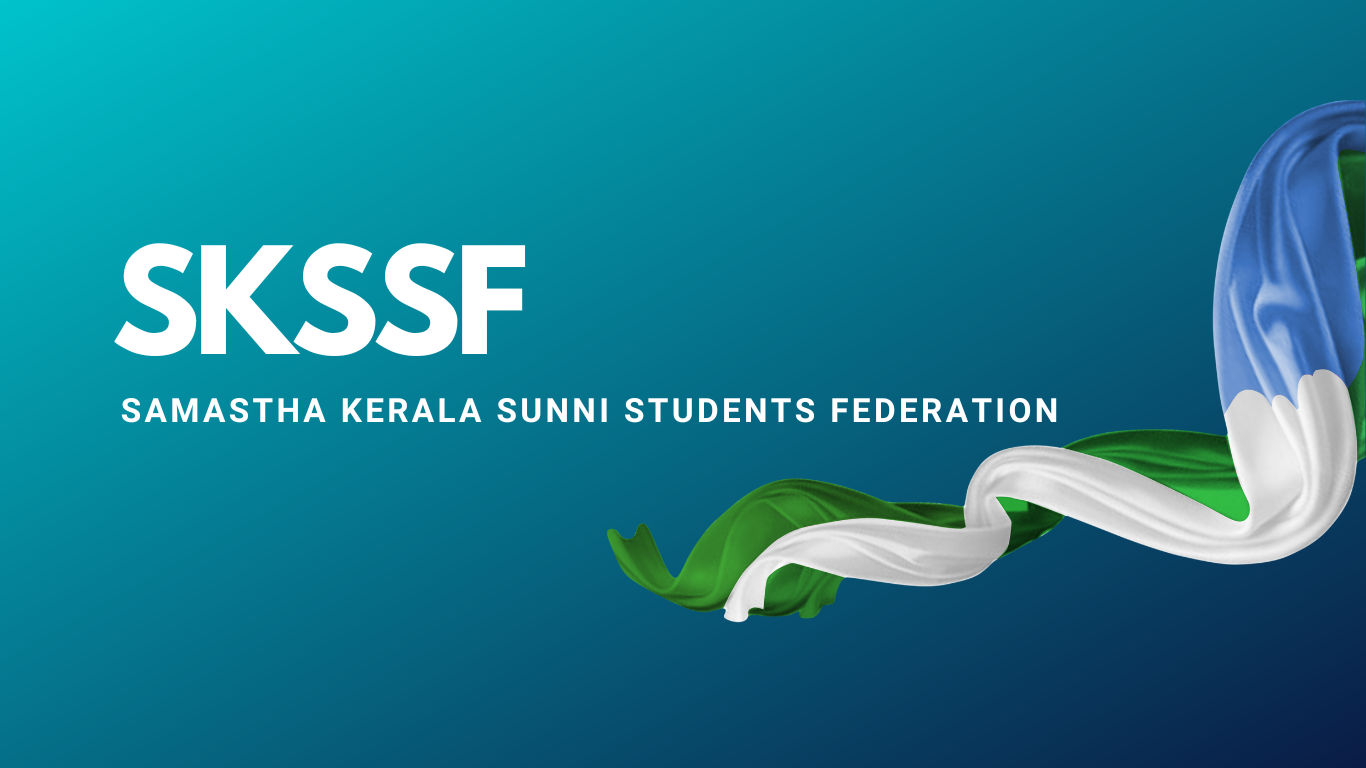
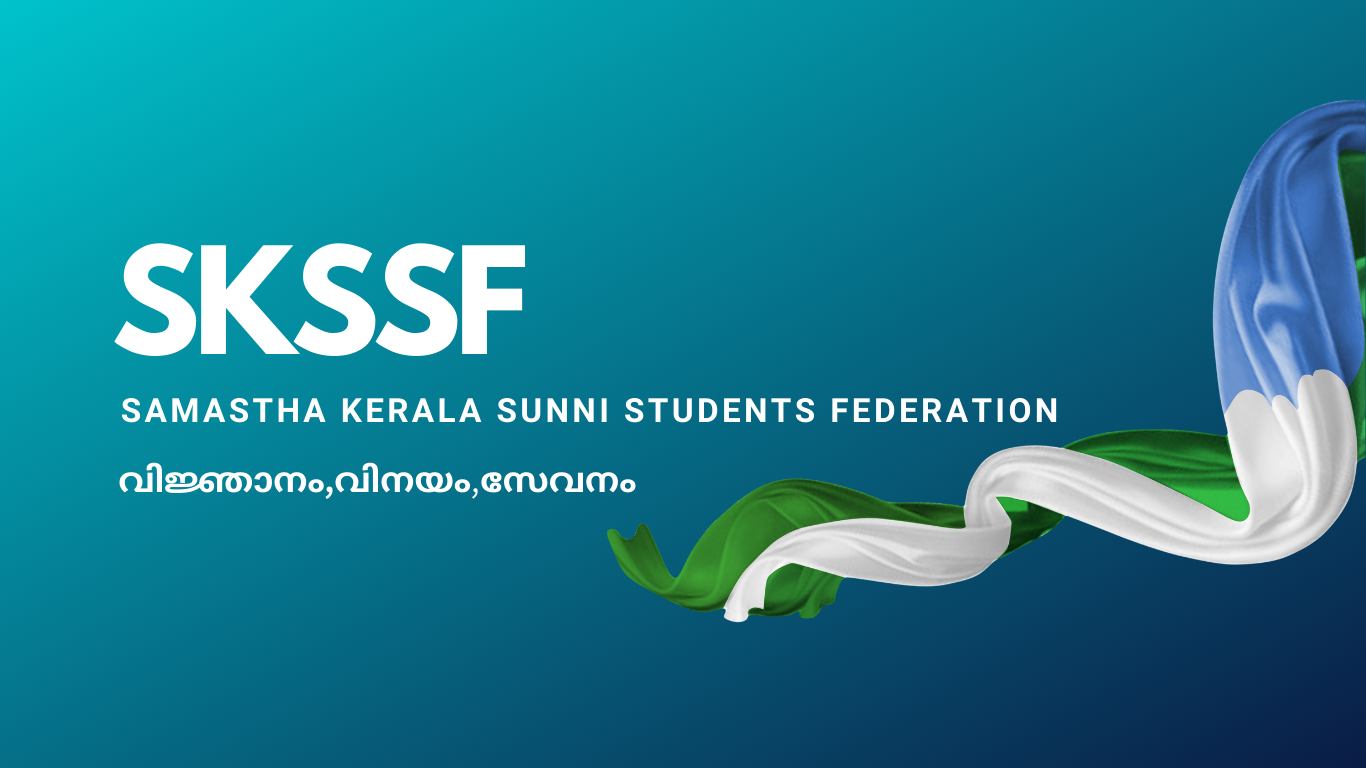
second commit

Changed region(s): [[0.0922, 0.5938, 0.4612, 0.6562]]

diff --git a/src/components/AboutComponents/about.jsx b/src/components/AboutComponents/about.jsx
@@ -140,7 +140,25 @@ const about = () => {
         </tbody>
       </table>
     </div>
+    <div className="mt-12 sm:mt-16 md:mt-20 lg:mt-28 flex justify-center flex-col items-center">
 
+    <h1 className="text-3xl md:text-2xl sm:text-xl text-md text-center text-sky-700 font-extrabold">
+        HISTORY
+      </h1>
+
+      <div className="w-[80%]  mt-4">
+<p className="text-sky-900 font-medium text-justify leading-relaxed  text-md"> മഹാസംഗമമായപ്പോള് കുറ്റിപ്പുറത്ത് നിളാതിരം ശാസ്ത്രീയമായ സംഘാടക മികവു ചിന്തോദ്ദീപങ്ങളായ ചര്ച്ചകളും കണ്ട് പുളകമണിഞ്ഞു. അന്ന് ഓടിയെത്തിയ ജനലക്ഷങ്ങള് നിളയുടെ തീരത്തെ മറ്റേതു ചരിത്രത്തെക്കാളും വലിയ മഹാ സംഗമമായി. രണ്ടാം ദശകത്തിലെ മജ്ലിസ് ഇന്തിസാബ് നാമധേയം പോലെ വ്യത്യസ്തകള് നിറഞ്ഞ സമ്മേളനമായി. നവോത്ഥാനത്തിന്റെ പുതുജാലകങ്ങള് തുറക്കാന് അനിവാര്യമായ ചുവടുകളാണ് ഈ വിദ്യാര്ത്ഥി സംഘശക്തിക്ക് ഈ സമ്മേളനങ്ങള് നല്കിയ കരുത്ത്.
+വാദീനൂര് സമ്മേളനത്തിന്റെ ഉപോല്പന്നമായി വന്ന പ്രബോധന വിംഗാണ് ഇബാദ്. ഇസ്ലാമിക പ്രബോധന രംഗത്ത് ഇബാദ് വിജയക്കൊടി നാട്ടിക്കഴിഞ്ഞു. സമുദായത്തിനകത്ത് ജീര്ണ്ണതകള് ഉന്മൂലനം ചെയ്യാനുള്ള ശ്രമങ്ങളില് വ്യാപൃതമാകാവുന്നതോടൊപ്പം വ്യവസ്ഥാപിതവും മനഃശാസ്ത്രപരവുമായ സമീപനത്തിലൂടെ ഇതരമതാനുയായികളില് ഇസ്ലാമിനെ പരിചയപ്പെടുത്താന് ഇബാദിന് കഴിഞ്ഞു. അനേകം ഹൃദയങ്ങള്ക്ക് വെളിച്ചം നല്കാന് കഴിഞ്ഞു എന്നതോടൊപ്പം നിരന്തരം ഇരുട്ട് മാറിയ മനസ്സുകളുടെ എണ്ണം ശതഗുണീഭവിക്കുകയാണ്. അറവങ്കരയില് ആരംഭം കുറിച്ച പ്രവാചക വൈദ്യചികിത്സാകേന്ദ്രം പാസ്സ് ലഹരിക്ക് അടിമപ്പെട്ടവരെ ലഹരിമുക്തമാക്കാനുള്ള കേന്ദ്രവും കൂടിയാണ്. മഹല്ല് തലങ്ങളില് പ്രവര്ത്തനനിരതമാവാനും സത്യസരണിയെക്കുറിച്ച് പഠിപ്പിക്കാനുമായി സമഗ്രമഹല്ല് പദ്ധതി ഇബാദ് രൂപീകരിച്ചിട്ടുണ്ട്. സംസ്ഥാനത്ത് ഒട്ടാകെ നിരന്തരം പ്രവര്ത്തിക്കുന്നവിധം നാനൂറ് ദാഇമാര് ഇന്ന് ഇബാദിന്റെ പ്രവര്ത്തനത്തിന് സജ്ജമാണ്.
+വിദ്യാഭ്യാസ പ്രവര്ത്തന രംഗത്ത് ശക്തമായ മുന്നേറ്റമാണ് സംഘടനയുടെ ഉപ വിഭാഗമായ ട്രെന്റ് നടത്തുന്നത്. ഹയര് എഡ്യുക്കേഷന് പ്രോഗ്രാമിന്റെ ഭാഗമായി മസ്ക്കറ്റ് സുന്നി സെന്ററിന്റെ സാമ്പത്തിക സഹായത്തോടെ നടത്തിയ പദ്ധതി വഴി രണ്ട് ഐ.എ.എസുകാരെ സമൂഹത്തിന് നല്കി ട്രന്റിന്റെ പ്രവര്ത്തന രംഗത്ത് വ്യാപൃതനായിരുന്ന മുഹമ്മദലി ശിഹാബിന്റെ ഐ.എ.എസ്. ചട്ടവും സംഘടനയുടെ പ്രവര്ത്തന രംഗത്തെ ധന്യതയാണ്. ഷാര്ജ എസ്.കെ.എസ്.എസ്.എഫ് കമ്മിറ്റിയുടെ ആത്മാര്ത്ഥമായ സഹകരണത്തോടെ ഡിസംബര് 31ന് ഉദ്ഘാടനം ചെയ്ത സ്റ്റെപ് പദ്ധതി നൂറ്റിമുപ്പത്തിയാറ് വിദ്യാര്ത്ഥികളെ തെരെഞ്ഞെടുത്ത് അവര്ക്ക് ഉന്നത പഠനത്തിന് വിശിഷ്യാ സിവില് സര്വ്വീസ് മേഖലയിലേക്കുള്ള പ്രചോദന പരിശീലനങ്ങള് നല്കാവുന്ന വിപുല പദ്ധതിയാണ് ആവിഷ്കരിച്ചിട്ടുള്ളത്. കേരള വിദ്യാഭ്യാസ വകുപ്പ് മന്ത്രി അബ്ദുള് റബ്ബ് സാഹിബ് ഉദ്ഘാടനം ചെയ്ത പരിപാടി വലിയ പ്രതീക്ഷയാണ് ഉണര്ത്തുന്നത്. മോട്ടിവേഷന് ക്ലാസുകള് കരിയര്, ഗൈഡന്സ് എന്നിങ്ങനെ, ട്രെന്റ് വിദ്യാഭ്യാസ പ്രവര്ത്തന രംഗത്ത് നവോത്ഥാന വിപ്ലവം സൃഷ്ടിക്കുകയാണ്.
+ഇസ്ലാമിക സാഹിത്യ രംഗത്ത് പ്രസാധന വിഭാഗമായ ഇസ പുസ്തകങ്ങള്, പ്രഭാഷണ സിഡികള് എന്നിവ കാലിക പ്രസക്തമായ വിധം പ്രസിദ്ധീകരിക്കുന്നു. കേരളത്തിലങ്ങോളം ശാഖകളും പതിനായിരക്കണക്കിന് പഠിതാക്കളുമുള്ള ഖുര്ആന് സ്റ്റഡി സെന്റര്, സമസ്തയുടെ ആശയ പ്രചരണത്തിന് എസ്.കെ.എസ്,എസ്.എഫിന്റെ താങ്ങായി പ്രവര്ത്തിക്കുന്ന പ്രവാസി വിംഗുകള് ഇസ്ലാമിക് സെന്ററുകള്, സുന്നി സെന്ററുകള്, സംഘടന പ്രവര്ത്തനത്തിന്റെ ജീവനാഡികള് യഥാര്ത്ഥത്തില് പ്രവാസ സമിതികളാണ്. അവരുടെ നിശ്ശബ്ദ സേവനങ്ങളെ എത്ര പ്രശംസിച്ചാലും മതിയാവില്ല. ഓരോ ഘട്ടത്തിലും സംഘടന ഏറ്റെടുക്കുന്ന വിവിധ പ്രവര്ത്തനങ്ങള് നിര്ലോഭം സഹകരിച്ച് വിജയിപ്പിക്കുന്നതില് അവരുടെ പങ്ക് വലുതാണ്.
+സമാകാലിക പ്രശ്നങ്ങളെ അപഗ്രഥിച്ച് സുന്നത്ത് ജമാഅത്തിന്റെ ആശയങ്ങള്ക്കനുസരിച്ച് നേരിന്റെ ശബ്ദം ഉറച്ച് പറയുന്ന സത്യധാരയും പ്രചരണ രംഗത്തെ നൂതമ സംവിധാനമായി വിവരസാങ്കേതിക വിദ്യയുടെ സഹായമായി മാറിയ കേരള ഇസ്ലാമിക് ക്ലാസ് റൂമും സംഘടനയുടെ ആശയ പ്രചരണസംവിധാനങ്ങളുടെ പുഷ്കല ഉപാധികളാണ്.
+കാമ്പസ് ജീവിതത്തിന്റെ ധാര്മ്മികതയെ ശരിപ്പെടുത്താന് വിപുല സംവിധാനങ്ങളോടെ പ്രവര്ത്തിക്കുന്ന കാമ്പസ് വിംഗ്, വിവിധ പ്രവര്ത്തന മേഖലകള് വ്യാപിപ്പിക്കുകയാണ്. കാമ്പസ് വിംഗിന്റെ ആശയവിനിമയ സംവിധാനങ്ങള് ഏറെ ശ്രദ്ധേയമായി വരികയാണ്. സംസ്ഥാനത്ത് ഏറെ ശ്രദ്ധേയമായ കമ്മ്യൂണിറ്റി സെറ്റ് കാമ്പസ് വിംഗിന്റേതായി മാറിക്കഴിഞ്ഞു. അറബി കോളേജ്, ദര്സ് വിദ്യാര്ത്ഥികള്ക്കുള്ള ത്വലബാ വിംഗും സംഘടനയുടെ കരുത്തിന്റെ പ്രതീകമായ വിഖായയും പ്രവര്ത്തന രംഗത്ത് കര്മ്മ പദ്ധതികള് സമര്പ്പിച്ച് സജീവ ശ്രദ്ധ നേടി വരുന്നു.
+സര്ഗവാസനയെ പ്രോത്സാഹിപ്പിച്ച് യൂണിറ്റ് മുതല് സംസ്ഥാന തലം വരെ സര്ഗപ്രതിഭകളെ വളര്ത്തിയെടുക്കുന്നതിന് ഉപകരിക്കുംവിധം നടത്തുന്ന ശ്രദ്ധേയമായ പ്രവര്ത്തനമാണ് സര്ഗലയം. ഓരോ രണ്ടു വര്ഷവും കൂടി നടക്കുന്ന സര്ഗലയം പ്രതിഭകളുടെ സംഗമമായി മാറുന്നു. പ്രതിഭകള്ക്കായി വിപുല സംവിധനാനത്തോടെ ഒരു സാസ്കാരിക സമിതി സംഘടനയുടെ ആലോചനയിലുണ്ട്.
+മതതീവ്രവാദം കേരള മുസ്ലിം യൗവ്വനത്തെ കാര്ന്ന് തിന്നാല് തുടങ്ങിയ ഘട്ടത്തില് മതതീവ്രവാദത്തിനും വര്ഗ്ഗീയതക്കുമെതിരെ സംഘടന നടത്തിയ പോരാട്ടങ്ങള് പൊതു സമൂഹത്തിന്റെ ശ്രദ്ധയും അംഗീകാരവുമ നേടിയതിന്റെ സാക്ഷിപത്രമാണ് ഓരോ റിപ്പബ്ലിക് ഡേയിലും നടക്കുന്ന മനുഷ്യജാലിക സംഗമങ്ങളുടെ അത്ഭുത പൂര്വ്വ വിജയം. നാടിന്റെ സൗഹൃദം കാക്കാന് വികാരത്തിനെതിരെ വിചിന്തനത്തിന്റെയും കാര്യബോധത്തിന്റെയും കൂട്ടായ്മയായി മനുഷ്യജാലിക അടയാളപ്പെടുത്തിക്കഴിഞ്ഞു.
+ഗതകാല സുകൃതം പേറി പുരോയാനത്തിന്റെ പുതുപ്പാട്ടുമായി മുന്നേറ്റത്തിന് കളമൊരുക്കാന് റെയില്വേ ലിങ്ക് റോട്ടില്, കോഴിക്കോട് നഗര പ്രാന്തത്തില് തലയുയര്ത്തി നില്ക്കുന്ന ഇസ്ലാമിക് സെന്റര് മറ്റേതൊരു വിദ്യാര്ത്ഥി പ്രസ്ഥാനത്തിനും അവകാശപ്പെടാനാവാത്ത ആസ്ഥാനഗാംഭീര്യമാണ്.
+രണ്ടരപതിറ്റാണ്ടുകടന്ന് പുതിയ പദ്ധതികള്, പുതിയ സ്വപ്നങ്ങള്, കര്മത്തിന്റെ നൈര്യന്തരമായി സംഘടന പ്രയാണം തുടരുന്നു. സമസ്തയുടെ തണലില് നവോത്ഥാനത്തിന്റെ തുടിപ്പുള്ള ജൈത്രയാത്ര.</p>
+</div>
+</div>
 </div>
 </div>
 

diff --git a/src/components/SubwingComponents/Ibad.jsx b/src/components/SubwingComponents/Ibad.jsx
@@ -3,25 +3,26 @@
 const Ibad = () => {
   return (
     <div className="mt-12 mb-11 sm:mt-16 md:mt-20 lg:mt-28 flex justify-center flex-col items-center">
-    <h1 className="text-3xl md:text-2xl sm:text-xl text-sky-700 font-extrabold">
-      IBAD-Islamic Brothers Associate Division
-    </h1>
-    <div
-     
-      className="w-full sm:w-[90%] md:w-[80%] lg:w-[70%] mt-4"
-    >
-      <p className="text-sky-900  text-justify font-medium text-md">
-      അഹ്ലുസ്സുന്നത്തി വല് ജമാഅത്തിന്റെ ആശയാദര്ശങ്ങളില് ഉറച്ചു നിന്നുകൊï്, അല്ലാഹുവിന്റെ മതമായ ഇസ്ലാമിന്റെ സൗന്ദര്യം പരിചയപ്പെടുത്തുക എന്ന ലക്ഷ്യത്തോടെ 1999 എസ്.കെ.എസ്.എസ്.എഫിന്റെ ഉപഘടകമായി രൂപീകരിക്കപ്പെട്ട സംഘമാണ് ഇബാദ്.
-എസ്.കെ.എസ്.എസ്.എഫിന്റെ പത്താം വാര്ഷികമായ വാദിനൂര് സമ്മേളനത്തിന്റെ സമ്മാനവും കൂടിയാണ് ഇബാദ്. ഒച്ചപ്പാടുകളും ബഹളങ്ങളുമില്ലാതെ നിശ്ശബ്ദമായി ഇസ്ലാമിന്റെ മതപരമായ കാഴ്ചപ്പാടുകള് പൊതുസമൂഹത്തില് അവതരിപ്പിക്കുക, ദീനീ ദഅ്വത്ത് നടത്തുക, തസ്കിയത് നടത്തുക എന്നിങ്ങനെയുള്ള കൃത്യമായ അജïകളിലൂടെ മുന്നേറുന്ന സംവിധാനമാണ് ഇബാദിനുള്ളത്. ഇസ്ലാമിക സമൂഹത്തിന്റെ ആത്മീയ ശാക്തീകരണവും ഇസ്ലാമിന്റെ വിശുദ്ധ വെളിച്ചം മറ്റുള്ളവര്ക്ക് പകരുകയുമാണ് ലക്ഷ്യം.
-        </p>
+   
+    
+      
 
+        <h1 className="text-3xl md:text-2xl sm:text-xl text-md text-center text-sky-700 font-extrabold">
+        IBAD-Islamic Brothers Associate Division
+      </h1>
+   
+
+      <div className="w-[80%]  mt-4">
+<p className="text-sky-900 font-medium text-justify text-md"> അഹ്ലുസ്സുന്നത്തി വല് ജമാഅത്തിന്റെ ആശയാദര്ശങ്ങളില് ഉറച്ചു നിന്നുകൊï്, അല്ലാഹുവിന്റെ മതമായ ഇസ്ലാമിന്റെ സൗന്ദര്യം പരിചയപ്പെടുത്തുക എന്ന ലക്ഷ്യത്തോടെ 1999 എസ്.കെ.എസ്.എസ്.എഫിന്റെ ഉപഘടകമായി രൂപീകരിക്കപ്പെട്ട സംഘമാണ് ഇബാദ്.
+എസ്.കെ.എസ്.എസ്.എഫിന്റെ പത്താം വാര്ഷികമായ വാദിനൂര് സമ്മേളനത്തിന്റെ സമ്മാനവും കൂടിയാണ് ഇബാദ്. ഒച്ചപ്പാടുകളും ബഹളങ്ങളുമില്ലാതെ നിശ്ശബ്ദമായി ഇസ്ലാമിന്റെ മതപരമായ കാഴ്ചപ്പാടുകള് പൊതുസമൂഹത്തില് അവതരിപ്പിക്കുക, ദീനീ ദഅ്വത്ത് നടത്തുക, തസ്കിയത് നടത്തുക എന്നിങ്ങനെയുള്ള കൃത്യമായ അജïകളിലൂടെ മുന്നേറുന്ന സംവിധാനമാണ് ഇബാദിനുള്ളത്. ഇസ്ലാമിക സമൂഹത്തിന്റെ ആത്മീയ ശാക്തീകരണവും ഇസ്ലാമിന്റെ വിശുദ്ധ വെളിച്ചം മറ്റുള്ളവര്ക്ക് പകരുകയുമാണ് ലക്ഷ്യം.</p>
+</div>
       
           <img
             className="w-full  max-w-[250px] mx-auto"
[1 lines of base64/hex data omitted]
             alt=""
             />
-        </div>
+       
 
     <div className="border w-80 h-96 gap-2 border-sky-300 mt-9 mb-2 flex flex-col items-center justify-center">
       <img

diff --git a/src/components/Navbar.jsx b/src/components/Navbar.jsx
@@ -8,9 +8,9 @@ const Nav = () => {
     { name: 'TREND', link: '/subwings/trend' },
     { name: 'CAMPUS WING', link: '/subwings/campus' },
     { name: 'IBAD', link: '/subwings/ibad' },
-    { name: 'ISATHIQAMA', link: '/subwings/isathiqama' },
-    { name: 'MANEESHA', link: '/subwings/maneesha' },
-    { name: 'ORGANET', link: '/subwings/organet' },
+    // { name: 'ISATHIQAMA', link: '/subwings/isathiqama' },
+    // { name: 'MANEESHA', link: '/subwings/maneesha' },
+    // { name: 'ORGANET', link: '/subwings/organet' },
     { name: 'SARGALAYA', link: '/subwings/sargalaya' },
     { name: 'MEDIA WING', link: '/subwings/media' },
     { name: 'TWALABA WING', link: '/subwings/twalaba' },

diff --git a/index.html b/index.html
@@ -6,7 +6,7 @@
     <meta name="viewport" content="width=device-width, initial-scale=1.0" />
     <title>SKSSF</title>
   </head>
-  <body>
+  <body class="scrollbar-thin scrollbar-thumb-cyan-500  scrollbar-thumb-h-9">
     <div id="root"></div>
     <script type="module" src="/src/main.jsx"></script>
     <script type="module" src="https://unpkg.com/ionicons@5.5.2/dist/ionicons/ionicons.esm.js"></script>

diff --git a/tailwind.config.js b/tailwind.config.js
@@ -6,8 +6,10 @@ export default {
   ],
   theme: {
     extend: {},
-   
   },
-  plugins: [ import('flowbite/plugin')
+  plugins: [
+    // eslint-disable-next-line no-undef
+    require('flowbite/plugin'), require('tailwind-scrollbar'), 
   ],
 }
+
